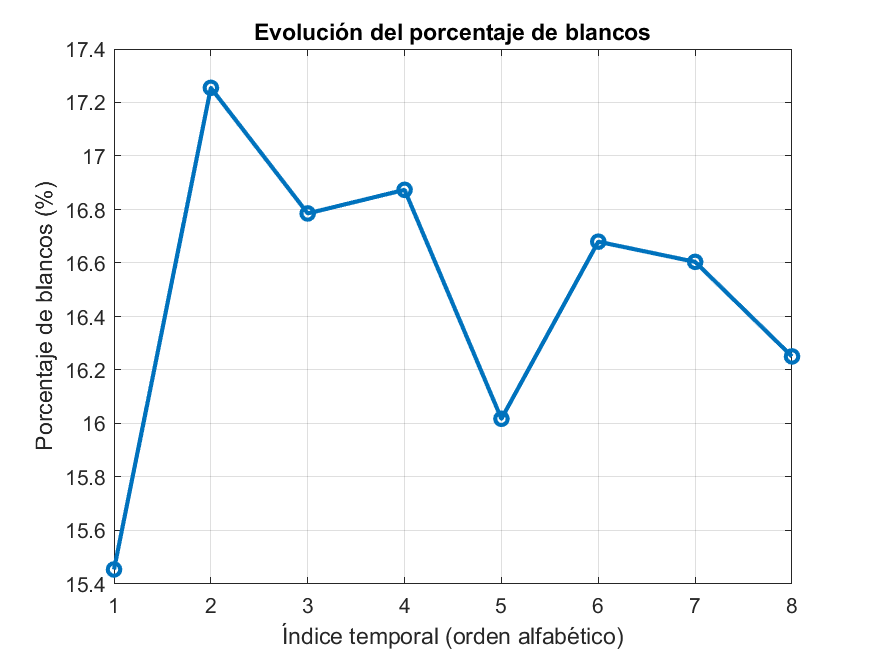
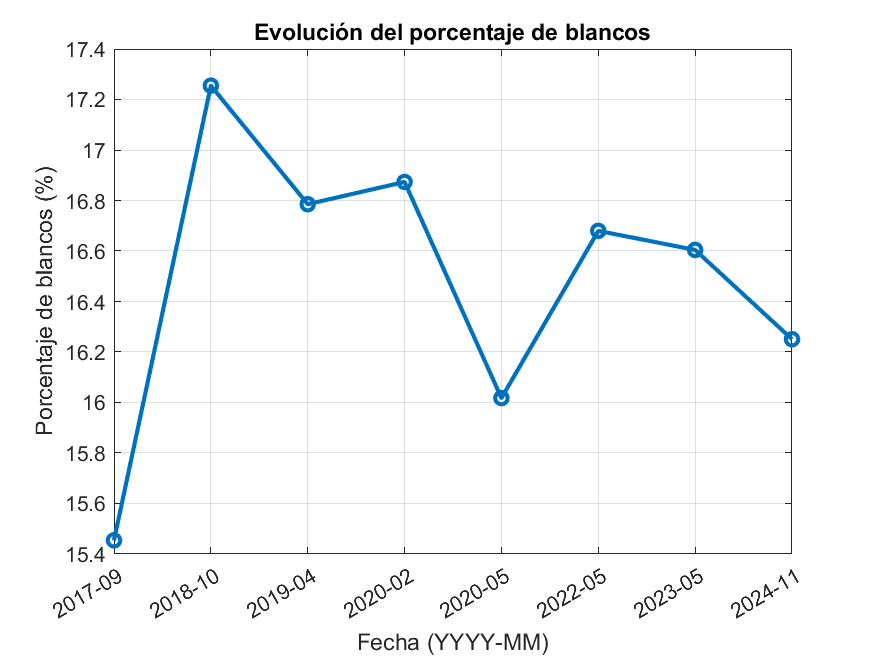
Histograma, true color y false color

diff --git a/app/app.m b/app/app.m
@@ -1,11 +1,12 @@
-basePath = '..\pulau-anak-krakatau\img\';
-savePath = '..\pulau-anak-krakatau\results\';
+basePath = '..\img\';
+savePath = '..\results\';
 
 folders = dir(basePath);
 folders = folders([folders.isdir] & ~startsWith({folders.name}, '.'));
 
 porcentajes = zeros(1, length(folders));
 nombresOrdenados = strings(1, length(folders));
+etiquetasFechas = strings(1, length(folders)); % Para fechas YYYY-MM
 
 for i = 1:length(folders)
     folderName = folders(i).name;
@@ -19,7 +20,6 @@ for i = 1:length(folders)
     end
 
     hv = imread(fullfile(fullFolderPath, HV_file(1).name));
-
     hv = hv > 0;
 
     figure('Name', folderName);
@@ -28,7 +28,7 @@ for i = 1:length(folders)
 
     z = hv;
 
-    % Quita manchas bancas
+    % Quita manchas blancas
     u = 13;
     for k = 1:4
         z = quitamanchas(z, u, 0, 1);
@@ -44,52 +44,62 @@ for i = 1:length(folders)
         z = quitamanchas(z, u, 0, 0);
         z = quitamanchas(z, u, 1, 0);
     end
- 
+
     % Tamaño de imagen
     [alto, ancho] = size(z);
-    
+
     % Centro y radio en píxeles
     cx = ancho / 2;
     cy = alto / 2;
     radio_px = 1245;  % Círculo de 19.46 km²
-    
+
     % Crear máscara circular
     [xx, yy] = meshgrid(1:ancho, 1:alto);
     mask = ((xx - cx).^2 + (yy - cy).^2) <= radio_px^2;
-    
+
     % Aplicar máscara a la imagen binaria
     z_masked = z & mask;
-    
+
     % Calcular porcentaje solo dentro del círculo
     num_1 = nnz(z_masked);
     num_total = nnz(mask);  % Solo píxeles dentro del círculo
-    
+    num_0 = num_total - num_1;
+
     porcentaje = (num_1 / num_total) * 100;
 
+
+
     subtxt = sprintf('Blancos (1): %d | Negros (0): %d | Porcentaje blancos: %.2f%%', ...
-                 num_1, num_0, porcentaje);
-    
-    annotation("textbox", [0.5, 0.91, 0.5, 0.05], "String", subtxt, "HorizontalAlignment","right");
+                     num_1, num_0, porcentaje);
+
+    annotation("textbox", [0.5, 0.91, 0.5, 0.05], ...
+        "String", subtxt, "HorizontalAlignment", "right");
 
     subplot(1,3,3);
     imshow(z); hold on;
+
     % Crear coordenadas de un círculo
     theta = linspace(0, 2*pi, 1000);
     x_circ = cx + radio_px * cos(theta);
     y_circ = cy + radio_px * sin(theta);
-    
+
     % Dibujar círculo
     plot(x_circ, y_circ, 'r', 'LineWidth', 0.8);
-    
+
     title(sprintf('Área considerada: %.2f km²', 19.46));
+
     % Guardar el valor y nombre
     porcentajes(i) = porcentaje;
     nombresOrdenados(i) = folderName;
 
+    % Extraer fecha en formato YYYY-MM
+    [~, nameOnly, ~] = fileparts(HV_file(1).name);
+    fecha = extractBetween(nameOnly, 1, 7);
+    etiquetasFechas(i) = fecha;
+
     % Guardar imagen procesada como PNG
     nombreSalida = fullfile(savePath, sprintf('%s.png', folderName));
     imwrite(z, nombreSalida);
-
 end
 
 %%%%%%%%%%%%%%
@@ -97,11 +107,16 @@ end
 % Ordenar por nombre para gráfica coherente
 [~, orden] = sort(nombresOrdenados);
 porcentajes_ordenados = porcentajes(orden);
+fechas_ordenadas = etiquetasFechas(orden);
+
+
 
 % Gráfica evolución
 figure;
 plot(porcentajes_ordenados, '-o', 'LineWidth', 2);
-xlabel('Índice temporal (orden alfabético)');
+xticks(1:length(fechas_ordenadas));
+xticklabels(fechas_ordenadas);
+xlabel('Fecha (YYYY-MM)');
 ylabel('Porcentaje de blancos (%)');
 title('Evolución del porcentaje de blancos');
 grid on;
@@ -118,7 +133,9 @@ area_blanca_m2 = (porcentajes_ordenados / 100) * area_total_m2;
 % Gráfica del área en metros cuadrados
 figure;
 plot(area_blanca_m2, '-s', 'LineWidth', 2, 'MarkerSize', 6);
-xlabel('Índice temporal (orden alfabético)');
+xticks(1:length(fechas_ordenadas));
+xticklabels(fechas_ordenadas);
+xlabel('Fecha (YYYY-MM)');
 ylabel('Área blanca (m²)');
 title('Evolución del área blanca en el círculo (m²)');
 grid on;

diff --git a/app/lab3.m b/app/lab3.m
@@ -1,0 +1,69 @@
+basePath = '..\img\';
+outputDir = fullfile(basePath, '..', 'results_lab3');
+if ~exist(outputDir, 'dir')
+    mkdir(outputDir);
+end
+
+% Lista de carpetas dentro del directorio base
+folders = dir(basePath);
+folders = folders([folders.isdir] & ~startsWith({folders.name}, '.'));
+
+for i = 1:length(folders)
+    folderName = folders(i).name;
+    fullFolderPath = fullfile(basePath, folderName);
+    
+    % Leer bandas necesarias
+    B02_file = dir(fullfile(fullFolderPath, '*B02__Raw_*.png')); % Azul
+    B03_file = dir(fullfile(fullFolderPath, '*B03__Raw_*.png')); % Verde
+    B04_file = dir(fullfile(fullFolderPath, '*B04__Raw_*.png')); % Rojo
+    B08_file = dir(fullfile(fullFolderPath, '*B08__Raw_*.png')); % NIR
+    
+    if isempty(B02_file) || isempty(B03_file) || isempty(B04_file) || isempty(B11_file)
+        warning('Faltan bandas en la carpeta: %s', folderName);
+        continue;
+    end
+    
+    azul = imread(fullfile(fullFolderPath, B02_file(1).name));
+    verde = imread(fullfile(fullFolderPath, B03_file(1).name));
+    rojo = imread(fullfile(fullFolderPath, B04_file(1).name));
+    nir = imread(fullfile(fullFolderPath, B08_file(1).name)); % Usando NIR
+
+    % Expansión de la banda SWIR1 para ajustar el rango de valores
+    nir = expan(nir, 0, 255);  
+
+    % Aplicar corte de colas a las imágenes para eliminar valores extremos
+    azul = corte(azul, 0.01);
+    verde = corte(verde, 0.01);
+    rojo = corte(rojo, 0.01);
+    nir = corte(nir, 0.01);
+    
+    % Crear la subcarpeta para esta fecha
+    outputSubDir = fullfile(outputDir, folderName);
+    if ~exist(outputSubDir, 'dir')
+        mkdir(outputSubDir);
+    end
+    
+    % Guardar Banda NIR
+    imwrite(nir, fullfile(outputSubDir, 'Banda_NIR.png'));
+    
+    % Guardar Histograma Banda NIR
+    h = figure('Visible', 'off');
+    histogram(nir(:), 256);
+    title('Histograma Banda NIR');
+    xlabel('Intensidad');
+    ylabel('Número de píxeles');
+    saveas(h, fullfile(outputSubDir, 'Histograma_NIR.png'));
+    close(h);
+    
+    % Composición True Color 
+    trueColor = combina(rojo, verde, azul);  
+    imwrite(trueColor, fullfile(outputSubDir, 'Composicion_True_Color.png'));
+    
+    % Composición False Color (SWIR1, Rojo, Verde)
+    falseColor = cat(3, nir, rojo, verde);  
+    imwrite(falseColor, fullfile(outputSubDir, 'Composicion_False_Color_NIR.png'));
+    
+    % Aplicar corte en HSV (Saturación)
+    falseColorHSV = cortehsv(falseColor, 0.1);  
+    imwrite(falseColorHSV, fullfile(outputSubDir, 'Composicion_False_Color_Corte_S.png'));
+end

diff --git a/app/expan.m b/app/expan.m
@@ -1,0 +1,29 @@
+% Expansion lineal de una banda
+
+function z = expan(x, m, M)
+
+  [F, C] = size(x);
+  x = double(x);
+
+  z = zeros(F, C);
+
+  for f = 1:F
+    for c = 1:C
+      nd = x(f, c);
+      if nd > 0
+        ndp = ((nd - m) * 254) / (M - m) + 1;
+        if ndp < 1
+          ndp = 1;
+        end
+        if ndp > 255
+          ndp = 255;
+        end
+        z(f, c) = ndp;
+      end
+    end
+    f
+  end
+
+  z = uint8(z);
+
+end

diff --git a/app/corte.m b/app/corte.m
@@ -1,0 +1,25 @@
+% Corte de colas de una banda
+
+function z = corte(x, p)
+
+  [F, C] = size(x);
+
+  h = histo(x);
+  N = sum(h) * p;
+  m = 1;
+  s = h(m);
+  while s < N
+    m = m + 1;
+    s = s + h(m);
+  end
+  M = 255;
+  s = h(M);
+  while s < N
+    M = M - 1;
+    s = s + h(M);
+  end
+  m
+  M
+  z = expan(x, m, M);
+
+end

diff --git a/app/cortehsv.m b/app/cortehsv.m
@@ -1,0 +1,13 @@
+% Corte de colas en Saturacion de una imagen True-color
+
+function z = cortehsv(x, p)
+
+  b = 2;
+  z = rgb2hsv(x);
+  z = uint8(z * 255);
+  z(:, :, b) = corte(z(:, :, b), p);
+  z = double(z) / 255;
+  z = hsv2rgb(z);
+  z = uint8(z * 255);
+
+end

diff --git a/app/ndwi_v.m b/app/ndwi_v.m
@@ -5,8 +5,8 @@
 function z = ndwi_v(x, y)
 
   b = x > 0 & y > 0;
-  g = double(x) / 255; # G
-  n = double(y) / 255; # NIR
+  g = double(x) / 255; % G
+  n = double(y) / 255; % NIR
   z = (g - n) ./ (g + n);
   z = (z + 1) * 254 / 2 + 1;
   z = z .* b;

diff --git a/app/app_vieja.m b/app/app_vieja.m
@@ -1,5 +1,5 @@
 % Ruta base donde están las carpetas
-basePath = '..\pulau-anak-krakatau\img\';
+basePath = '..\img';
 
 % Lista de carpetas dentro del directorio base (exceptuando . y ..)
 folders = dir(basePath);

diff --git a/app/combina.m b/app/combina.m
@@ -1,0 +1,9 @@
+% Realiza una composicion a color
+
+function z = combina(r, g, b)
+
+  z = r;
+  z(:, :, 2) = g;
+  z(:, :, 3) = b;
+
+end
